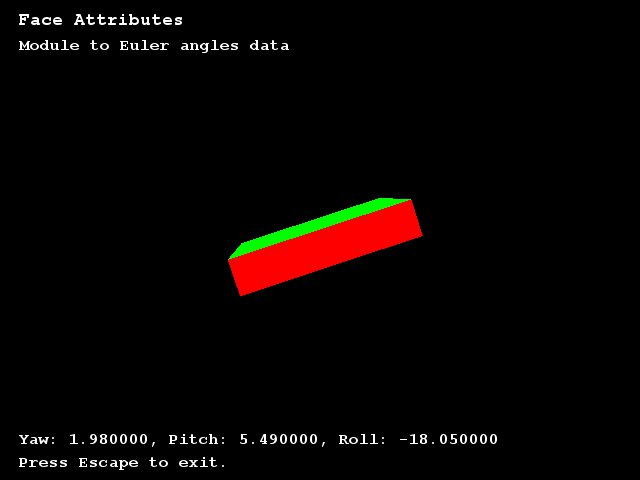
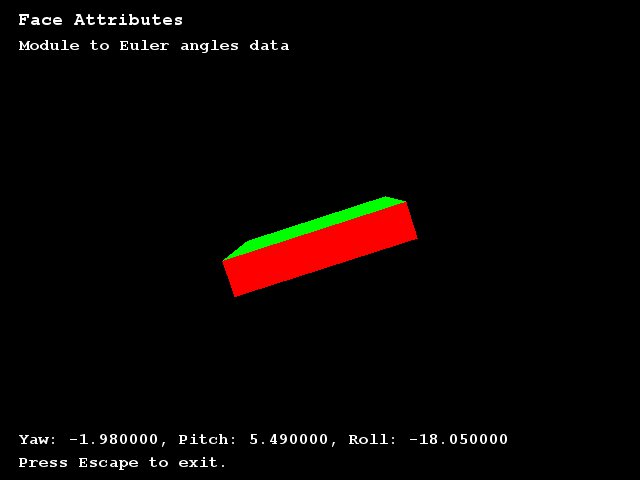
update

diff --git a/rotating_cube.py b/rotating_cube.py
@@ -26,7 +26,7 @@ def main():
         item = data[i]
         pitch = item['pitch_out']
         roll = item['roll_out']
-        yaw = item['yaw_out']
+        yaw = -item['yaw_out']
         draw(1, yaw, pitch, roll)
         pygame.image.save(screen, "images/{}_angle.jpg".format(i))
 
